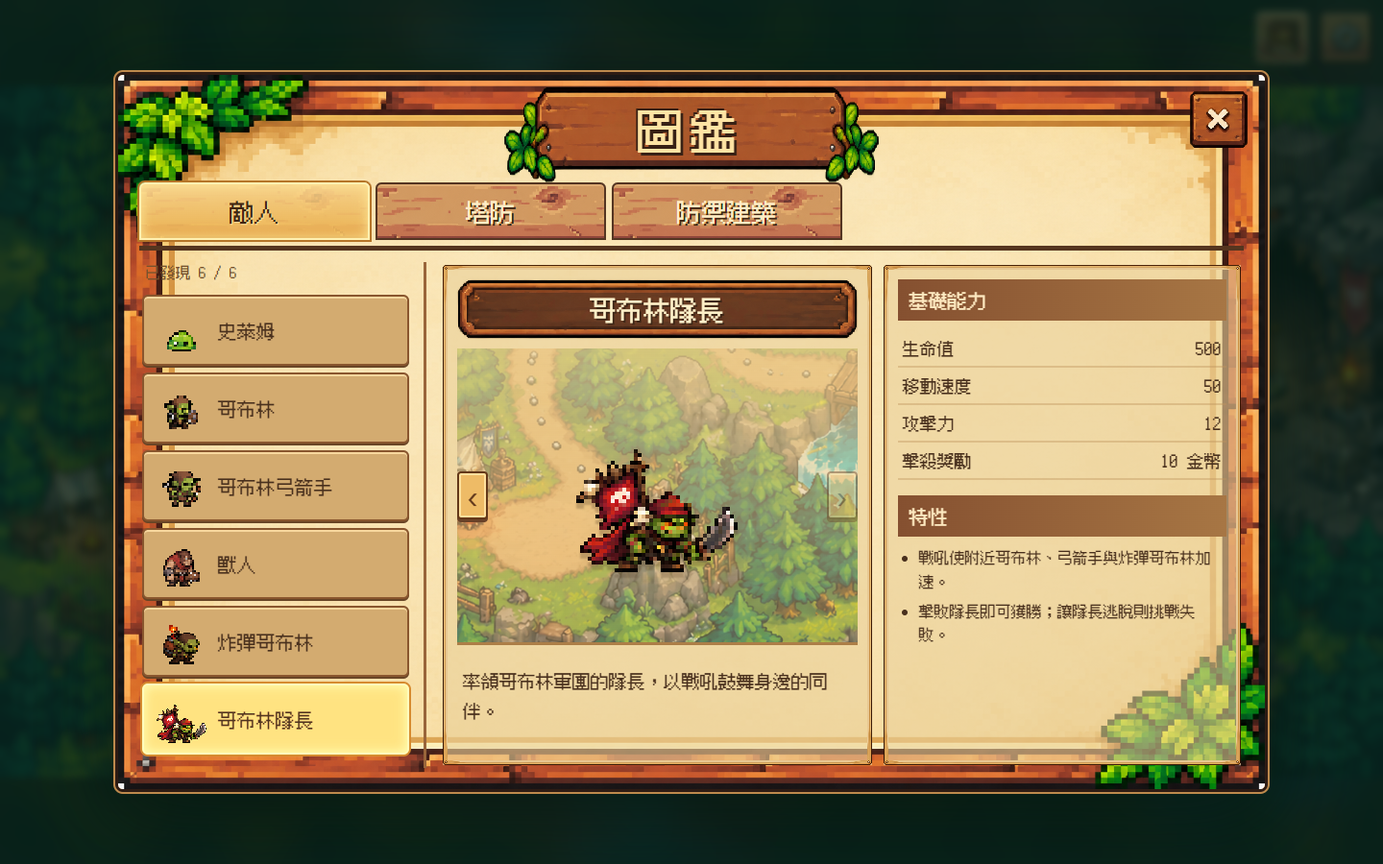
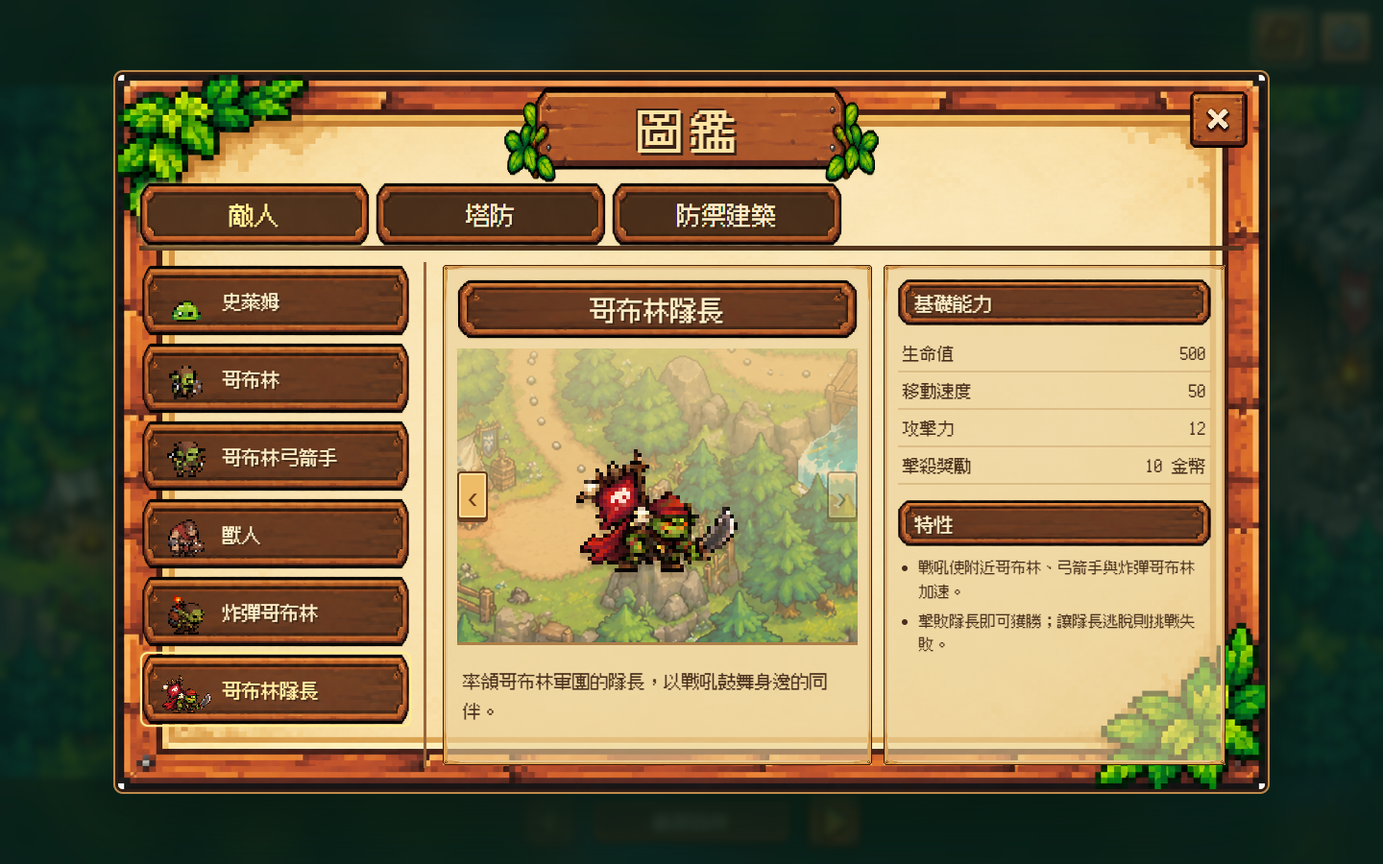
Add cave map navigation and refine stage names and encyclopedia layout

Changed region(s): [[0.0938, 0.1867, 0.625, 0.9022], [0.625, 0.3111, 0.9062, 0.9022], [0.5938, 0.9333, 0.625, 0.9644]]

diff --git a/dist/encyclopedia.css b/dist/encyclopedia.css
@@ -8,21 +8,21 @@
 .encyclopedia-heading{position:relative;display:flex;justify-content:center;flex-shrink:0;height:100px}
 #encyclopedia-title{display:grid;place-items:center;width:390px;max-width:70%;height:100%;padding:8px 60px 18px;margin:0;background:url('assets/ui/stage-kit/title.png') center/100% 100% no-repeat;font-size:48px;font-weight:400;letter-spacing:.16em;color:#ffe4a4;text-shadow:3px 3px #382115,-2px -2px #382115;image-rendering:pixelated}
 #encyclopedia-close{position:absolute;right:-4px;top:4px;width:60px;height:60px;border:0;background:url('assets/ui/stage-kit/close.png') center/contain no-repeat;color:transparent;font-size:0;image-rendering:pixelated}
-.encyclopedia-tabs{display:flex;gap:6px;border-bottom:5px solid #55351f;padding:0 0 6px;flex-shrink:0}
-.encyclopedia-tabs button{flex:0 1 240px;min-height:60px;padding:8px 16px;border:2px solid #543522;border-radius:6px 6px 0 0;background:#8b4d29 var(--wood) center/300px;color:#ffedc6;text-shadow:2px 2px #402615;box-shadow:inset 0 2px #dfac73;font-size:26px}
-.encyclopedia-tabs button[aria-selected=true]{background:linear-gradient(#ffdf93cc,#efb54bcc),var(--wood) center/300px;color:#402712;text-shadow:1px 1px #ffdb9a;border-color:#fff0b1;box-shadow:0 0 0 2px #b57528,inset 0 0 12px #ffe998}
+.encyclopedia-tabs{display:flex;gap:6px;align-items:stretch;border-bottom:5px solid #55351f;padding:0;flex-shrink:0}
+.encyclopedia-tabs button{flex:0 1 240px;min-height:66px;padding:8px 20px;border:0;background:url('assets/ui/stage-kit/nameplate.png') center bottom/100% 100% no-repeat;color:#ffedc6;text-shadow:2px 2px #382115,-1px -1px #382115;font-size:26px;image-rendering:pixelated}
+.encyclopedia-tabs button[aria-selected=true]{color:#ffe087;text-shadow:2px 2px #382115,-1px -1px #382115;filter:brightness(1.12) drop-shadow(0 0 3px #ffdf81)}
 #encyclopedia-content{display:grid;grid-template-columns:26% minmax(0,1fr);gap:14px;min-height:0;flex:1;padding-top:12px}
 .encyclopedia-sidebar{display:flex;flex-direction:column;min-height:0;border-right:3px solid #99653a;padding-right:12px}
-#encyclopedia-count{margin:0 0 10px;padding:0 6px;font-size:16px;color:#75502d}
 #encyclopedia-list{overflow:auto;min-height:0;scrollbar-color:#b77939 #5f3a23;scrollbar-width:thin;padding:3px;display:flex;flex-direction:column;gap:7px}
-.encyclopedia-entry{display:flex;align-items:center;gap:8px;width:100%;min-height:74px;flex-shrink:0;padding:5px 9px;border:2px solid #89562e;border-radius:6px;background:#d3ab70;box-shadow:inset 0 2px #f7d79e,0 2px #694526;color:var(--ink);font-size:20px;text-align:left}
-.encyclopedia-entry[aria-current=true]{background:#ffd277;border-color:#fff0ae;box-shadow:0 0 0 2px #c6812c,inset 0 0 12px #fff0ad}
+.encyclopedia-entry{display:flex;align-items:center;gap:8px;width:100%;min-height:74px;flex-shrink:0;padding:7px 16px;border:0;border-radius:6px;background:url('assets/ui/stage-kit/heading.png') center/100% 100% no-repeat;color:#fff1c9;text-shadow:2px 2px #3d2717;font-size:20px;text-align:left;image-rendering:pixelated}
+.encyclopedia-entry[aria-current=true]{outline:2px solid #ffdc83;outline-offset:0;box-shadow:0 0 6px #ffe49c;color:#ffe49c}
 .encyclopedia-sprite{--size:60px;position:relative;display:block;width:var(--size);height:var(--size);flex-shrink:0;background-position:center;background-size:contain;background-repeat:no-repeat;image-rendering:pixelated}
 .encyclopedia-operator{position:absolute;left:50%;transform:translateX(-50%);background:url('assets/bomb-towers/operator.png') 0 0/800% 100% no-repeat}
 .encyclopedia-sprite.is-sheet{background-position:0 0;background-size:calc(var(--frames)*var(--size)) var(--size)}
 .encyclopedia-sprite.is-unknown{filter:brightness(0)}
 .encyclopedia-detail{display:grid;grid-template-columns:minmax(0,1.2fr) minmax(0,1fr);gap:12px;min-height:0;overflow:auto;scrollbar-color:#b77939 #d8b57c;scrollbar-width:thin;padding:3px}
 .encyclopedia-profile,.encyclopedia-facts{min-width:0;border:5px solid #a27140;border-image:url('assets/ui/stage-kit/panel.png') 30 stretch;background:#ead09a99;padding:10px}
+.encyclopedia-facts{margin-right:16px}
 .encyclopedia-profile{display:flex;flex-direction:column}
 #encyclopedia-name{display:grid;place-items:center;flex-shrink:0;min-height:62px;margin:0;text-align:center;padding:9px 12px;background:url('assets/ui/stage-kit/heading.png') center/100% 100% no-repeat;color:#fff1c9;text-shadow:2px 2px #3d2717;font-size:28px;font-weight:400;image-rendering:pixelated}
 .encyclopedia-scene{position:relative;display:flex;align-items:center;justify-content:space-between;min-height:180px;flex:1;margin:10px 0;background:linear-gradient(#edcf90c9,#dfbc7e66),url('assets/ui/forest-world-map.png') 8% 72%/360%;border-bottom:3px solid #ac7e47}
@@ -34,7 +34,7 @@
 #encyclopedia-levels{display:flex;justify-content:center;gap:8px}
 #encyclopedia-levels button{border:2px solid #86592f;background:#cfaa70;color:#50351e;padding:7px 12px;border-radius:4px;font-size:18px}
 #encyclopedia-levels button[aria-pressed=true]{background:#ffe096;border-color:#a46d26}
-.encyclopedia-facts h4{margin:0 0 10px;padding:8px 12px;background:linear-gradient(90deg,#855030,#a77644);color:#ffebc2;font-size:20px;font-weight:400}
+.encyclopedia-facts h4{display:flex;align-items:center;min-height:48px;margin:0 0 10px;padding:10px 18px;background:url('assets/ui/stage-kit/heading.png') center/100% 100% no-repeat;color:#fff1c9;text-shadow:2px 2px #3d2717;font-size:20px;font-weight:400;image-rendering:pixelated}
 #encyclopedia-stats{display:grid;grid-template-columns:1fr auto;margin:0 0 16px;font-size:18px}
 #encyclopedia-stats dt,#encyclopedia-stats dd{margin:0;padding:6px 5px;border-bottom:2px solid #bd945c66}
 #encyclopedia-stats dd{text-align:right}
@@ -42,18 +42,18 @@
 #encyclopedia-traits li+li{margin-top:6px}
 #encyclopedia-dialog button:hover:not(:disabled){filter:brightness(1.08)}
 #encyclopedia-dialog button:focus-visible{outline:3px solid #3b704c;outline-offset:1px}
-@media(max-width:1000px){.encyclopedia-entry{font-size:17px;gap:3px;padding:4px}.encyclopedia-entry .encyclopedia-sprite{--size:48px}#encyclopedia-portrait .encyclopedia-sprite{--size:144px}.encyclopedia-detail{grid-template-columns:minmax(0,1.15fr) minmax(0,1fr)}#encyclopedia-name{font-size:24px}#encyclopedia-stats{font-size:17px}#encyclopedia-traits{font-size:16px}}
+@media(max-width:1000px){.encyclopedia-entry{font-size:17px;gap:3px;padding:7px 12px}.encyclopedia-entry .encyclopedia-sprite{--size:48px}#encyclopedia-portrait .encyclopedia-sprite{--size:144px}.encyclopedia-detail{grid-template-columns:minmax(0,1.15fr) minmax(0,1fr)}#encyclopedia-name{font-size:24px}#encyclopedia-stats{font-size:17px}#encyclopedia-traits{font-size:16px}}
 @media(max-width:700px){
  #encyclopedia-open{width:44px;height:44px;right:calc(max(12px,env(safe-area-inset-right)) + 54px)}
  #encyclopedia-dialog{width:calc(100vw - 16px);height:calc(100dvh - 24px)}
  .encyclopedia-panel{padding:6px 10px 12px}.encyclopedia-heading{height:72px}#encyclopedia-title{font-size:32px;width:250px;padding:5px 30px 12px}#encyclopedia-close{width:42px;height:42px;right:0}
- .encyclopedia-tabs{gap:4px;border-bottom-width:3px}.encyclopedia-tabs button{min-height:46px;padding:7px 4px;font-size:20px;flex:1}
- #encyclopedia-content{display:flex;flex-direction:column;gap:8px;padding-top:6px}.encyclopedia-sidebar{border:0;padding:0;flex-shrink:0}#encyclopedia-count{font-size:14px;margin:0 0 4px}
- #encyclopedia-list{flex-direction:row;overflow:auto;gap:7px;padding:3px 3px 7px}.encyclopedia-entry{width:132px;min-height:58px;font-size:15px;gap:3px}.encyclopedia-entry .encyclopedia-sprite{--size:42px}
+ .encyclopedia-tabs{gap:4px;border-bottom-width:3px}.encyclopedia-tabs button{min-width:0;min-height:46px;padding:7px 10px;font-size:clamp(14px,4.6vw,20px);flex:1;white-space:nowrap}
+ #encyclopedia-content{display:flex;flex-direction:column;gap:8px;padding-top:6px}.encyclopedia-sidebar{border:0;padding:0;flex-shrink:0}
+ #encyclopedia-list{flex-direction:row;overflow:auto;gap:7px;padding:3px 3px 7px}.encyclopedia-entry{width:148px;min-height:58px;font-size:15px;gap:3px}.encyclopedia-entry .encyclopedia-sprite{--size:42px}
  .encyclopedia-detail{display:block;flex:1;min-height:0}.encyclopedia-profile,.encyclopedia-facts{padding:8px}.encyclopedia-facts{margin-top:8px}#encyclopedia-name{min-height:45px;font-size:24px}.encyclopedia-scene{min-height:158px;margin:4px 0}#encyclopedia-portrait .encyclopedia-sprite{--size:144px}#encyclopedia-description{min-height:0;font-size:17px;padding:8px 4px}.encyclopedia-facts h4{font-size:21px;margin-bottom:6px}#encyclopedia-stats{font-size:18px;margin-bottom:16px}#encyclopedia-traits{font-size:17px}
 }
 @media(max-height:500px) and (min-width:701px){.encyclopedia-heading{height:64px}#encyclopedia-title{font-size:32px}.encyclopedia-tabs button{min-height:42px;font-size:20px}.encyclopedia-panel{padding:6px 14px 12px}#encyclopedia-content{padding-top:6px}.encyclopedia-scene{min-height:150px}#encyclopedia-portrait .encyclopedia-sprite{--size:128px}}
 @media(max-height:500px) and (min-width:560px) and (max-width:700px){
  .encyclopedia-heading{height:50px}#encyclopedia-title{font-size:28px}.encyclopedia-tabs button{min-height:36px;font-size:18px}
- #encyclopedia-content{display:grid;grid-template-columns:30% minmax(0,1fr)}.encyclopedia-sidebar{min-height:0}#encyclopedia-count{font-size:12px}#encyclopedia-list{flex-direction:column;min-height:0}.encyclopedia-entry{width:100%;min-height:48px}.encyclopedia-detail{min-height:0}
+ #encyclopedia-content{display:grid;grid-template-columns:30% minmax(0,1fr)}.encyclopedia-sidebar{min-height:0}#encyclopedia-list{flex-direction:column;min-height:0}.encyclopedia-entry{width:100%;min-height:48px}.encyclopedia-detail{min-height:0}
 }

diff --git a/dist/level-select.js b/dist/level-select.js
@@ -1,10 +1,49 @@
 (function(root){
   'use strict';
   const $=id=>document.getElementById(id),screen=$('level-screen'),dialog=$('stage-dialog');
-  const nodes=[...document.querySelectorAll('.level-node')],stages=LevelProgress.stages;
+  // These map stops are previews until their battle scenarios are added.
+  const caveStages=[
+    {name:'洞窟入口',position:[11.6,34]},
+    {name:'骸骨營地',position:[31.6,36]},
+    {name:'深淵吊橋',position:[47.8,72]},
+    {name:'幽火哨站',position:[67.3,49]},
+    {name:'洞窟王座',position:[87.5,46]}
+  ].map(stage=>({...stage,enemies:[],href:null}));
+  const stages=[...LevelProgress.stages,...caveStages];
+  caveStages.forEach((stage,i)=>{
+    const node=document.createElement('button');
+    node.className='level-node';node.dataset.stage=String(i+6);
+    node.style.left=stage.position[0]+'%';node.style.top=stage.position[1]+'%';
+    node.setAttribute('aria-haspopup','dialog');node.setAttribute('aria-controls','stage-dialog');node.setAttribute('aria-expanded','false');
+    node.innerHTML=`<span class="node-art" aria-hidden="true"><img class="node-pad" src="assets/ui/level-markers/pedestal.png" alt=""><img class="node-flag" src="assets/ui/level-markers/banner-blank.png" alt=""><span class="node-number">${i+6}</span><img class="node-lock" src="assets/ui/level-markers/lock-chains.png" alt="" hidden></span><span class="node-stars" aria-hidden="true"><span></span><span></span><span></span></span>`;
+    $('cave-levels').append(node);
+  });
+  const nodes=[...document.querySelectorAll('.level-node')],pages=[...document.querySelectorAll('.world-page')];
+  const pageNames=['翡翠森林','幽暗洞窟'],track=$('map-track');
   const enemyNames={1:'哥布林',2:'獸人',3:'獨眼巨人',4:'炸彈哥布林',5:'史萊姆',6:'哥布林弓箭手',7:'哥布林隊長'};
   const settings=$('world-settings'),settingsButton=$('world-settings-open');
-  let selected=0,stars=[];
+  let selected=0,stars=[],pageIndex=0,switchTimer=null;
+  function pageControls(){
+    $('map-prev').disabled=pageIndex===0||switchTimer!==null;
+    $('map-next').disabled=pageIndex===pages.length-1||switchTimer!==null;
+  }
+  function changePage(index,{animate=true,focus=true}={}){
+    if(index<0||index>=pages.length||switchTimer!==null)return;
+    const moving=index!==pageIndex&&animate&&!root.matchMedia('(prefers-reduced-motion: reduce)').matches;
+    pageIndex=index;
+    track.classList.toggle('no-transition',!moving);
+    track.style.transform=`translateX(${-index*100}%)`;
+    pages.forEach((page,i)=>{page.inert=i!==index;page.setAttribute('aria-hidden',String(i!==index));});
+    screen.dataset.mapPage=String(index);
+    $('world-title').textContent=pageNames[index]+'選關地圖';
+    $('map-page-label').textContent=pageNames[index];
+    document.title='林境守衛 · '+pageNames[index];
+    const finish=()=>{switchTimer=null;pageControls();if(focus&&!screen.hidden)nodes[index*5].focus({preventScroll:true});};
+    if(moving)switchTimer=root.setTimeout(finish,580);else finish();
+    pageControls();
+  }
+  $('map-prev').addEventListener('click',()=>changePage(pageIndex-1));
+  $('map-next').addEventListener('click',()=>changePage(pageIndex+1));
   function fitDialog(modal){
     if(!modal.open)return;
     if(modal===settings){ForestSettings.fit(modal);return;}
@@ -16,8 +55,7 @@
   }
   function fitLayout(){
     if(!screen.hidden){
-      const surface=document.querySelector('.map-surface');
-      surface.style.setProperty('--node-scale',Math.min(1.4,surface.clientWidth/1200)*2/3);
+      document.querySelectorAll('.map-surface').forEach(surface=>surface.style.setProperty('--node-scale',Math.min(1.4,surface.clientWidth/1200)*2/3));
     }
     fitDialog(dialog);fitDialog(settings);
   }
@@ -39,7 +77,7 @@
       node.classList.toggle('is-current',open&&stars[index]===0);
       node.querySelector('.node-lock').hidden=open;
       node.querySelectorAll('.node-stars span').forEach((star,i)=>star.classList.toggle('earned',i<stars[index]));
-      node.setAttribute('aria-label',`第 ${index+1} 關，${stages[index].name}，${stars[index]} 顆星，${open?'已解鎖':'尚未解鎖'}`);
+      node.setAttribute('aria-label',`第 ${index+1} 關，${stages[index].name}，${stars[index]||0} 顆星，${!stages[index].href?'關卡準備中':open?'已解鎖':'尚未解鎖'}`);
     });
   }
   function selectStage(index){
@@ -48,7 +86,8 @@
     nodes.forEach((node,i)=>node.setAttribute('aria-expanded',String(i===index)));
     $('stage-title').textContent=`第 ${index+1} 關`;
     $('stage-name').textContent=stage.name;
-    $('stage-preview').style.backgroundPosition=['0% 75%','10% 20%','50% 50%','75% 70%','100% 20%'][index];
+    $('stage-preview').style.backgroundImage=`url('assets/ui/${index>=5?'cave':'forest'}-world-map.png')`;
+    $('stage-preview').style.backgroundPosition=index>=5?stage.position.map(value=>value+'%').join(' '):['0% 75%','10% 20%','50% 50%','75% 70%','100% 20%'][index];
     $('stage-preview').setAttribute('aria-label',`${stage.name}區域示意圖`);
     const encountered=new Set(LevelProgress.readEncountered(storage()));
     $('stage-enemies').replaceChildren();
@@ -63,12 +102,12 @@
       label.className='enemy-name';label.textContent=known?enemyNames[id]:'未遭遇';item.append(sprite,label);$('stage-enemies').append(item);
     });
     $('enemies-pending').hidden=stage.enemies.length>0;
-    $('stage-stars').setAttribute('aria-label',`最佳紀錄 ${stars[index]} / 3 顆星`);
+    $('stage-stars').setAttribute('aria-label',`最佳紀錄 ${stars[index]||0} / 3 顆星`);
     $('stage-stars').querySelectorAll('span').forEach((star,i)=>star.classList.toggle('earned',i<stars[index]));
-    $('stage-clear-status').textContent=stars[index]?'已通關':!open?'尚未解鎖':'尚未通關';
+    $('stage-clear-status').textContent=!stage.href?'關卡準備中':stars[index]?'已通關':!open?'尚未解鎖':'尚未通關';
     $('stage-clear-status').classList.toggle('is-cleared',stars[index]>0);
     $('stage-enter').disabled=!open||!stage.href;
-    $('stage-enter-label').textContent=!open?'尚未解鎖':!stage.href?'關卡準備中':stage.preview?'預覽關卡':'開始挑戰';
+    $('stage-enter-label').textContent=!stage.href?'關卡準備中':!open?'尚未解鎖':stage.preview?'預覽關卡':'開始挑戰';
     if(!dialog.open)dialog.showModal();
     fitDialog(dialog);
   }
@@ -81,13 +120,17 @@
   $('stage-close').addEventListener('click',()=>dialog.close());
   dialog.addEventListener('click',event=>{if(event.target===dialog){const rect=dialog.getBoundingClientRect();if(event.clientX<rect.left||event.clientX>rect.right||event.clientY<rect.top||event.clientY>rect.bottom)dialog.close();}});
   dialog.addEventListener('close',()=>{nodes.forEach(node=>node.setAttribute('aria-expanded','false'));nodes[selected].focus({preventScroll:true});});
-  $('world-levels').addEventListener('keydown',event=>{
+  track.addEventListener('keydown',event=>{
     const current=nodes.indexOf(document.activeElement);if(current<0)return;
     let next=current;
-    if(['ArrowRight','ArrowUp'].includes(event.key))next=Math.min(4,current+1);
-    else if(['ArrowLeft','ArrowDown'].includes(event.key))next=Math.max(0,current-1);
-    else if(event.key==='Home')next=0;
-    else if(event.key==='End')next=4;
+    const first=pageIndex*5,last=first+4;
+    if(event.key==='PageDown'||event.key==='PageUp'){
+      event.preventDefault();changePage(pageIndex+(event.key==='PageDown'?1:-1));return;
+    }
+    if(['ArrowRight','ArrowUp'].includes(event.key))next=Math.min(last,current+1);
+    else if(['ArrowLeft','ArrowDown'].includes(event.key))next=Math.max(first,current-1);
+    else if(event.key==='Home')next=first;
+    else if(event.key==='End')next=last;
     else return;
     event.preventDefault();nodes[next].focus({preventScroll:true});
   });
@@ -102,8 +145,10 @@
     ready(){},
     show(){
       root.StartScreen.stop();$('start-screen').hidden=true;screen.hidden=false;
-      document.title='林境守衛 · 翡翠森林';refresh();
+      if(switchTimer!==null){root.clearTimeout(switchTimer);switchTimer=null;}
+      refresh();
       const current=nodes.find((node,i)=>LevelProgress.unlocked(stars,i)&&stars[i]===0)||nodes[0];
+      changePage(Math.floor(nodes.indexOf(current)/5),{animate:false,focus:false});
       fitLayout();current.focus({preventScroll:true});
     }
   };

diff --git a/dist/level-select.css b/dist/level-select.css
@@ -1,9 +1,23 @@
 #level-screen{height:100vh;height:100dvh;position:relative;overflow:hidden;background:#142e27;color:#f8e5b5;font-family:var(--font-ui);--wood:url('assets/ui/wood-texture.png');--map:url('assets/ui/forest-world-map.png')}
 .map-sr-only{position:absolute;width:1px;height:1px;margin:-1px;overflow:hidden;clip-path:inset(50%);white-space:nowrap}
-.world-map{position:absolute;inset:0;overflow:hidden;display:grid;place-items:center;background:#142e27}
-.world-map::before{content:"";position:absolute;inset:0;background:var(--map) center/cover no-repeat;filter:blur(20px) brightness(.45);pointer-events:none}
+.world-map{position:absolute;inset:0;overflow:hidden;background:#142e27}
+.map-track{display:flex;width:100%;height:100%;transition:transform .55s cubic-bezier(.22,.72,.25,1)}
+.map-track.no-transition{transition:none}
+.world-page{position:relative;flex:0 0 100%;min-width:0;height:100%;display:grid;place-items:center;overflow:hidden}
+.world-page::before{content:"";position:absolute;inset:0;background:var(--map) center/cover no-repeat;filter:blur(20px) brightness(.45);pointer-events:none}
+.cave-page{--map:url('assets/ui/cave-world-map.png');background:#111b25}
 .map-surface{position:relative;width:min(100vw,200dvh);max-width:100%;aspect-ratio:2/1;background:var(--map) center/100% 100% no-repeat;isolation:isolate}
-#world-levels{position:absolute;inset:0}
+#world-levels,#cave-levels{position:absolute;inset:0}
+.node-number{position:absolute;left:18px;top:19px;width:76px;text-align:center;color:#fff6df;font-size:48px;line-height:1.2;text-shadow:3px 3px #28140d,-3px -3px #28140d,3px -3px #28140d,-3px 3px #28140d}
+.is-locked .node-number{color:#e1d3b9}
+.map-pagination{position:absolute;z-index:2;bottom:max(16px,env(safe-area-inset-bottom));left:50%;transform:translateX(-50%);display:flex;align-items:center;gap:16px}
+.map-arrow{display:block;flex:0 0 58px;width:58px;height:58px;border:0;padding:0;background:none;image-rendering:pixelated}
+.map-arrow img{display:block;width:100%;height:100%;pointer-events:none}
+.map-arrow:hover:not(:disabled){filter:brightness(1.18)}
+.map-arrow:focus-visible{outline:3px solid #ffe18a;outline-offset:4px}
+#map-page-label{min-width:206px;margin:0;padding:10px 18px;text-align:center;white-space:nowrap;background:url('assets/ui/stage-kit/heading.png') center/100% 100% no-repeat;color:#fff0cb;font-size:20px;text-shadow:2px 2px #39200f;image-rendering:pixelated}
+@media(max-width:600px),(max-height:420px){.map-pagination{bottom:max(10px,env(safe-area-inset-bottom));gap:10px}.map-arrow{flex-basis:44px;width:44px;height:44px}#map-page-label{min-width:174px;font-size:16px;padding:9px 14px}}
+@media(prefers-reduced-motion:reduce){.map-track{transition:none}}
 /* Scale the complete marker to 2/3 while anchoring the center of the stone footprint to the road. */
 .level-node{position:absolute;width:116px;height:144px;transform:translate(-50%,-82px) scale(var(--node-scale,1));transform-origin:50% 82px;border:0;background:none;display:flex;align-items:center;flex-direction:column;padding:0;isolation:isolate}
 .node-art{display:block;position:relative;width:112px;height:108px;flex-shrink:0;transition:filter .15s}

diff --git a/dist/index.html b/dist/index.html
@@ -34,6 +34,8 @@
     <button id="encyclopedia-open" aria-label="開啟圖鑑" title="圖鑑" aria-haspopup="dialog" aria-controls="encyclopedia-dialog" aria-expanded="false"><img src="assets/ui/encyclopedia-book.png" alt="" draggable="false"></button>
     <button id="world-settings-open" aria-label="選關設定" title="設定" aria-haspopup="dialog" aria-controls="world-settings" aria-expanded="false"><span class="world-settings-icon" aria-hidden="true"></span></button>
     <div class="world-map" id="world-map">
+      <div class="map-track" id="map-track">
+      <div class="world-page" data-map-page="0" aria-label="翡翠森林，第 1 至 5 關">
       <div class="map-surface">
       <nav id="world-levels" aria-label="森林關卡地圖">
         <button class="level-node" data-stage="1" style="left:12.6%;top:68%" aria-haspopup="dialog" aria-controls="stage-dialog" aria-expanded="false">
@@ -58,7 +60,17 @@
         </button>
       </nav>
       </div>
+      </div>
+      <div class="world-page cave-page" data-map-page="1" aria-label="幽暗洞窟，第 6 至 10 關" aria-hidden="true" inert>
+        <div class="map-surface"><nav id="cave-levels" aria-label="洞窟關卡地圖"></nav></div>
+      </div>
+      </div>
     </div>
+    <nav class="map-pagination" aria-label="切換選關地圖">
+      <button id="map-prev" class="map-arrow" type="button" aria-label="上一張地圖：第 1 至 5 關" aria-controls="map-track" disabled><img src="assets/ui/map-prev.png" alt="" draggable="false"></button>
+      <p id="map-page-label" role="status" aria-live="polite">翡翠森林</p>
+      <button id="map-next" class="map-arrow" type="button" aria-label="下一張地圖：第 6 至 10 關" aria-controls="map-track"><img src="assets/ui/map-next.png" alt="" draggable="false"></button>
+    </nav>
 
   </section>
   <dialog id="world-settings" data-settings-panel="map" aria-labelledby="world-settings-title"></dialog>
@@ -71,7 +83,7 @@
         <button id="encyclopedia-tab-defenses" role="tab" data-category="defenses" aria-selected="false" aria-controls="encyclopedia-content" tabindex="-1">防禦建築</button>
       </div>
       <div id="encyclopedia-content" role="tabpanel" aria-labelledby="encyclopedia-tab-enemies">
-        <nav class="encyclopedia-sidebar" aria-label="圖鑑條目"><p id="encyclopedia-count"></p><div id="encyclopedia-list"></div></nav>
+        <nav class="encyclopedia-sidebar" aria-label="圖鑑條目"><div id="encyclopedia-list"></div></nav>
         <section class="encyclopedia-detail" aria-live="polite">
           <div class="encyclopedia-profile"><h3 id="encyclopedia-name"></h3><div class="encyclopedia-scene"><button id="encyclopedia-prev" aria-label="上一個條目">‹</button><div id="encyclopedia-portrait"></div><button id="encyclopedia-next" aria-label="下一個條目">›</button></div><div id="encyclopedia-levels" aria-label="塔防等級" hidden></div><p id="encyclopedia-description"></p></div>
           <div class="encyclopedia-facts"><h4>基礎能力</h4><dl id="encyclopedia-stats"></dl><h4>特性</h4><ul id="encyclopedia-traits"></ul></div>

diff --git a/dist/level-five.html b/dist/level-five.html
@@ -4,11 +4,11 @@
 <link rel="stylesheet" href="fonts.css">
 <link rel="stylesheet" href="cursor.css">
 <link rel="stylesheet" href="pad-selection.css">
-<title>第五關 · 荊棘王座</title><link rel="stylesheet" href="tutorial.css"><link rel="stylesheet" href="game-hud.css"><link rel="stylesheet" href="wood-theme.css"><link rel="stylesheet" href="tower-drawer.css"><link rel="stylesheet" href="wave-clock.css"><link rel="stylesheet" href="settings-panel.css"><link rel="stylesheet" href="result-panel.css"></head>
+<title>第五關 · 哥布林巢穴</title><link rel="stylesheet" href="tutorial.css"><link rel="stylesheet" href="game-hud.css"><link rel="stylesheet" href="wood-theme.css"><link rel="stylesheet" href="tower-drawer.css"><link rel="stylesheet" href="wave-clock.css"><link rel="stylesheet" href="settings-panel.css"><link rel="stylesheet" href="result-panel.css"></head>
 <body>
   <div class="game-window">
   <main class="game-layout">
-    <section class="battlefield" aria-label="第五關戰場"><h1 class="sr-only">第五關 · 荊棘王座</h1><div class="map-space"><div class="map-frame" id="map-frame"><div class="map-world"><canvas id="battlefield" width="1280" height="768" aria-label="洞口前雙下凹與中央高繞道路、十個建造臺座"></canvas><div id="pads" aria-label="建造臺座"></div></div>
+    <section class="battlefield" aria-label="第五關戰場"><h1 class="sr-only">第五關 · 哥布林巢穴</h1><div class="map-space"><div class="map-frame" id="map-frame"><div class="map-world"><canvas id="battlefield" width="1280" height="768" aria-label="洞口前雙下凹與中央高繞道路、十個建造臺座"></canvas><div id="pads" aria-label="建造臺座"></div></div>
       <header class="game-header" aria-label="遊戲狀態與控制">
         <div class="hud-hearts" id="hearts" role="img" aria-label="剩餘生命 3 / 3"></div>
         <div class="hud">

diff --git a/dist/level-four.html b/dist/level-four.html
@@ -4,11 +4,11 @@
 <link rel="stylesheet" href="fonts.css">
 <link rel="stylesheet" href="cursor.css">
 <link rel="stylesheet" href="pad-selection.css">
-<title>第四關 · 暮色防線</title><link rel="stylesheet" href="tutorial.css"><link rel="stylesheet" href="game-hud.css"><link rel="stylesheet" href="wood-theme.css"><link rel="stylesheet" href="tower-drawer.css"><link rel="stylesheet" href="wave-clock.css"><link rel="stylesheet" href="settings-panel.css"><link rel="stylesheet" href="result-panel.css"></head>
+<title>第四關 · 哥布林營地</title><link rel="stylesheet" href="tutorial.css"><link rel="stylesheet" href="game-hud.css"><link rel="stylesheet" href="wood-theme.css"><link rel="stylesheet" href="tower-drawer.css"><link rel="stylesheet" href="wave-clock.css"><link rel="stylesheet" href="settings-panel.css"><link rel="stylesheet" href="result-panel.css"></head>
 <body>
   <div class="game-window">
   <main class="game-layout">
-    <section class="battlefield" aria-label="第四關戰場"><h1 class="sr-only">第四關 · 暮色防線</h1><div class="map-space"><div class="map-frame" id="map-frame"><div class="map-world"><canvas id="battlefield" width="1280" height="768" aria-label="洞口前雙折返道路與十三個建造臺座"></canvas><div id="pads" aria-label="建造臺座"></div></div>
+    <section class="battlefield" aria-label="第四關戰場"><h1 class="sr-only">第四關 · 哥布林營地</h1><div class="map-space"><div class="map-frame" id="map-frame"><div class="map-world"><canvas id="battlefield" width="1280" height="768" aria-label="洞口前雙折返道路與十三個建造臺座"></canvas><div id="pads" aria-label="建造臺座"></div></div>
       <header class="game-header" aria-label="遊戲狀態與控制">
         <div class="hud-hearts" id="hearts" role="img" aria-label="剩餘生命 3 / 3"></div>
         <div class="hud">

diff --git a/dist/level-three.html b/dist/level-three.html
@@ -4,11 +4,11 @@
 <link rel="stylesheet" href="fonts.css">
 <link rel="stylesheet" href="cursor.css">
 <link rel="stylesheet" href="pad-selection.css">
-<title>第三關 · 古木岔路</title><link rel="stylesheet" href="tutorial.css"><link rel="stylesheet" href="game-hud.css"><link rel="stylesheet" href="wood-theme.css"><link rel="stylesheet" href="tower-drawer.css"><link rel="stylesheet" href="wave-clock.css"><link rel="stylesheet" href="settings-panel.css"><link rel="stylesheet" href="result-panel.css"></head>
+<title>第三關 · 深林</title><link rel="stylesheet" href="tutorial.css"><link rel="stylesheet" href="game-hud.css"><link rel="stylesheet" href="wood-theme.css"><link rel="stylesheet" href="tower-drawer.css"><link rel="stylesheet" href="wave-clock.css"><link rel="stylesheet" href="settings-panel.css"><link rel="stylesheet" href="result-panel.css"></head>
 <body>
   <div class="game-window">
   <main class="game-layout">
-    <section class="battlefield" aria-label="第三關戰場"><h1 class="sr-only">第三關 · 古木岔路</h1><div class="map-space"><div class="map-frame" id="map-frame"><div class="map-world"><canvas id="battlefield" width="1280" height="768" aria-label="森林中央上下環形岔路與十個建造臺座"></canvas><div id="pads" aria-label="建造臺座"></div></div>
+    <section class="battlefield" aria-label="第三關戰場"><h1 class="sr-only">第三關 · 深林</h1><div class="map-space"><div class="map-frame" id="map-frame"><div class="map-world"><canvas id="battlefield" width="1280" height="768" aria-label="森林中央上下環形岔路與十個建造臺座"></canvas><div id="pads" aria-label="建造臺座"></div></div>
       <header class="game-header" aria-label="遊戲狀態與控制">
         <div class="hud-hearts" id="hearts" role="img" aria-label="剩餘生命 3 / 3"></div>
         <div class="hud">

diff --git a/dist/level-two.html b/dist/level-two.html
@@ -4,11 +4,11 @@
 <link rel="stylesheet" href="fonts.css">
 <link rel="stylesheet" href="cursor.css">
 <link rel="stylesheet" href="pad-selection.css">
-<title>第二關 · 花徑哨站</title><link rel="stylesheet" href="tutorial.css"><link rel="stylesheet" href="game-hud.css"><link rel="stylesheet" href="wood-theme.css"><link rel="stylesheet" href="tower-drawer.css"><link rel="stylesheet" href="wave-clock.css"><link rel="stylesheet" href="settings-panel.css"><link rel="stylesheet" href="result-panel.css"></head>
+<title>第二關 · 林間小徑</title><link rel="stylesheet" href="tutorial.css"><link rel="stylesheet" href="game-hud.css"><link rel="stylesheet" href="wood-theme.css"><link rel="stylesheet" href="tower-drawer.css"><link rel="stylesheet" href="wave-clock.css"><link rel="stylesheet" href="settings-panel.css"><link rel="stylesheet" href="result-panel.css"></head>
 <body>
   <div class="game-window">
   <main class="game-layout">
-    <section class="battlefield" aria-label="第二關戰場"><h1 class="sr-only">第二關 · 花徑哨站</h1><div class="map-space"><div class="map-frame" id="map-frame"><div class="map-world"><canvas id="battlefield" width="1280" height="768" aria-label="森林上下雙路匯流與九個建造臺座"></canvas><div id="pads" aria-label="建造臺座"></div></div>
+    <section class="battlefield" aria-label="第二關戰場"><h1 class="sr-only">第二關 · 林間小徑</h1><div class="map-space"><div class="map-frame" id="map-frame"><div class="map-world"><canvas id="battlefield" width="1280" height="768" aria-label="森林上下雙路匯流與九個建造臺座"></canvas><div id="pads" aria-label="建造臺座"></div></div>
       <header class="game-header" aria-label="遊戲狀態與控制">
         <div class="hud-hearts" id="hearts" role="img" aria-label="剩餘生命 3 / 3"></div>
         <div class="hud">

diff --git a/dist/level-progress.js b/dist/level-progress.js
@@ -3,10 +3,10 @@
   const KEY='td-level-stars', ENCOUNTER_KEY='td-encountered-enemies', COUNT=5;
   const stages=[
     {name:'林間入口',enemies:[5,1],href:'tutorial.html'},
-    {name:'花徑哨站',enemies:[1,6],href:'level-two.html'},
-    {name:'古木岔路',enemies:[1,6,2],href:'level-three.html'},
-    {name:'暮色防線',enemies:[1,6,2,4],href:'level-four.html'},
-    {name:'荊棘王座',enemies:[1,6,4,7],href:'level-five.html'}
+    {name:'林間小徑',enemies:[1,6],href:'level-two.html'},
+    {name:'深林',enemies:[1,6,2],href:'level-three.html'},
+    {name:'哥布林營地',enemies:[1,6,2,4],href:'level-four.html'},
+    {name:'哥布林巢穴',enemies:[1,6,4,7],href:'level-five.html'}
   ];
   function normalize(value){return Array.from({length:COUNT},(_,i)=>Number.isInteger(value?.[i])&&value[i]>=0&&value[i]<=3?value[i]:0);}
   function read(storage){

diff --git a/dist/encyclopedia.js b/dist/encyclopedia.js
@@ -19,7 +19,6 @@
     const entries=data[category];selected=Math.min(selected,entries.length-1);
     tabs.forEach(tab=>{const active=tab.dataset.category===category;tab.setAttribute('aria-selected',active);tab.tabIndex=active?0:-1;});
     $('encyclopedia-content').setAttribute('aria-labelledby',`encyclopedia-tab-${category}`);
-    $('encyclopedia-count').textContent=`已發現 ${entries.filter(entry=>entry.known).length} / ${entries.length}`;
     $('encyclopedia-list').replaceChildren(...entries.map((entry,index)=>{
       const button=document.createElement('button'),label=document.createElement('span');
       button.type='button';button.className='encyclopedia-entry';button.setAttribute('aria-current',String(index===selected));

diff --git a/art/level-select-cave/prompts.md b/art/level-select-cave/prompts.md
@@ -1,0 +1,25 @@
+# Cave map and navigation assets
+
+Generated with built-in image_gen; reference images supplied by the user.
+
+## Saved assets
+
+- `dist/assets/ui/cave-world-map.png` — full cave map background.
+- `dist/assets/ui/map-prev.png` and `dist/assets/ui/map-next.png` — left/right wooden arrow icons.
+- `dist/assets/ui/level-markers/banner-blank.png` — pennant with live stage numbers overlaid by the UI.
+- `art/level-select-cave/navigation-source.png` — original transparent sprite sheet.
+- Repack icons with `node tools/pack-map-navigation.cjs` (requires `sharp`).
+
+## Integration and verification
+
+The level selector slides between forest stops 1–5 and cave stops 6–10. Cave stops are inspectable previews, with no battle URL or progress mutation. Existing saves and playable stages are preserved. Page Up / Page Down switch maps when a stage is focused; Home / End and arrow keys navigate the current page. Reduced-motion settings disable the slide animation.
+
+Run `node tools/check-map-pages.cjs` with the local server on port 4173 and Playwright/Edge installed. Browser screenshots in this folder cover the forest page, cavern page, slide transition and mobile layout.
+
+## Map prompt
+
+Use case: precise-object-edit. Asset type: 2:1 landscape pixel-art level selection map background for a fantasy tower defense game. Edit the provided reference, retaining its composition, pixel art texture, dark cavern, turquoise waterfalls, rope bridges, orange torches, bones, red skull banners, and throne in upper right. Remove ONLY the five numbered level marker flags 6,7,8,9,10, their round stone pedestals and all fifteen gold rating stars, seamlessly replace them with bare walkable ochre path. Keep the open road areas centered near (11.6%,34%), (31.6%,36%), (47.8%,72%), (67.3%,49%), (87.5%,46%) of the image; the app will overlay live UI there. Keep winding connected routes through these five areas, the bridges and decorative skull flags. No numbers, no lettering, no UI icons, no rating stars, no level marker pedestals. Full bleed wide 2:1 map, crisp richly detailed pixel art, no border, no watermark.
+
+## UI sprite prompt
+
+Use case: background-extraction. Asset type: transparent game UI sprite sheet. Inputs: image 1 is reference for two wooden navigation buttons, image 2 is reference for a hanging level flag. Create THREE separate crisp pixel-art sprites arranged left to right in three equal cells on one wide transparent canvas. Left cell: square wooden left arrow button exactly matching first reference, amber arrow, dark outline, four silver rivets. Center cell: corresponding square wooden right arrow button. Right cell: hanging brown-orange pennant matching second reference, BUT blank with no digit or lettering, no pedestal or stars. Large clear empty transparent margins between sprites, all three fully inside their own cells, no overlap. Maintain original warm wood pixel textures and proportions; buttons same size, flag similar height. No labels, no text, no numbers. Output genuine transparent alpha background, no white or checkerboard.
